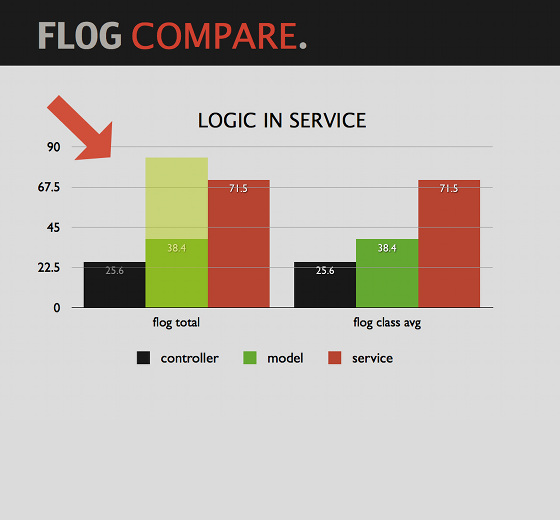
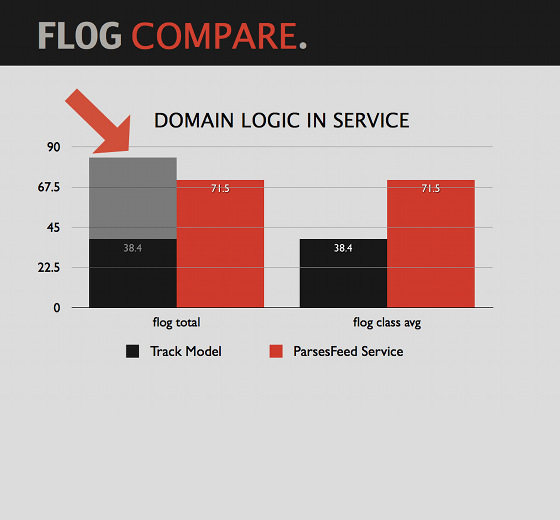
Adding more text to the slides

Changed region(s): [[0.0911, 0.1538, 0.4857, 0.7077], [0.425, 0.3385, 0.8804, 0.7077], [0.2732, 0.2154, 0.7286, 0.2462]]

diff --git a/index.html b/index.html
@@ -201,200 +201,239 @@
                       <img src="img/22.jpg" alt="" />
                       <div class="carousel-caption">
                           <h4>22 - Logic Outside of Rails</h4>
-                          <p>This is where my story begins. After going through a couple of tutorials I immediately started breaking out of Rails and putting
-                          my domain logic into Rails-independent service objects.</p>
+                          <p>This is where my story begins. After going through a couple of tutorials and placing most of the logic in models I soon started
+                            breaking out of Rails and puttig domain logic in Rails-independent service objects.</p>
                       </div>
                   </div>
                   <div class="item">
                       <img src="img/23.jpg" alt="" />
                       <div class="carousel-caption">
-                          <h4>23 - Thumbnail label</h4>
-                          <p>Cras justo odio, dapibus ac facilisis in, egestas eget quam. Donec id elit non mi porta gravida at eget metus. Nullam id dolor id nibh ultricies vehicula ut id elit.</p>
+                          <h4>23 - Domain Logic in Service</h4>
+                          <p>The controller looks very similar to the version where I had the logic in the model. Instead of calling the model, the controller
+                             sends a message to the service object.</p>
                       </div>
                   </div>
-                  <!--
                   <div class="item">
                       <img src="img/24.jpg" alt="" />
                       <div class="carousel-caption">
-                          <h4>24 - Thumbnail label</h4>
-                          <p>Cras justo odio, dapibus ac facilisis in, egestas eget quam. Donec id elit non mi porta gravida at eget metus. Nullam id dolor id nibh ultricies vehicula ut id elit.</p>
+                          <h4>24 - Domain Logic in Service - Flogged</h4>
+                          <p>Once the logic was moved into the service, the model went back to its original size. The benefit I had with the Rails independent
+                          service object was the very fast feedback loop with my unit tests.</p>
                       </div>
                   </div>
                   <div class="item">
                       <img src="img/25.jpg" alt="" />
                       <div class="carousel-caption">
-                          <h4>25 - Thumbnail label</h4>
-                          <p>Cras justo odio, dapibus ac facilisis in, egestas eget quam. Donec id elit non mi porta gravida at eget metus. Nullam id dolor id nibh ultricies vehicula ut id elit.</p>
+                          <h4>25 - Logic in Service Object</h4>
+                          <p>This is how I initially developed my service objects. One main method was called from the controller, and that "organizer" method
+                            called other methods within the same object.<br>
+                            In the context of this example the controller called the "for_track" method which in turn called other methods on itself.</p>
                       </div>
                   </div>
                   <div class="item">
                       <img src="img/26.jpg" alt="" />
                       <div class="carousel-caption">
-                          <h4>26 - Thumbnail label</h4>
-                          <p>Cras justo odio, dapibus ac facilisis in, egestas eget quam. Donec id elit non mi porta gravida at eget metus. Nullam id dolor id nibh ultricies vehicula ut id elit.</p>
+                          <h4>26 - Testing is Easy. Or is it?</h4>
+                          <p>I broke some obvious OO principles when I kept my internal methods "public" for the sake of easier testing. However, when I refactored
+                             the service's internal structures, some of the unit tests broke. This did not work...</p>
                       </div>
                   </div>
                   <div class="item">
                       <img src="img/27.jpg" alt="" />
                       <div class="carousel-caption">
-                          <h4>27 - Thumbnail label</h4>
-                          <p>Cras justo odio, dapibus ac facilisis in, egestas eget quam. Donec id elit non mi porta gravida at eget metus. Nullam id dolor id nibh ultricies vehicula ut id elit.</p>
+                          <h4>27 - How Will This Grow?</h4>
+                          <p>I made all the methods on the service object private except the "for_track" which was called by controller. This led to increadibly
+                             complex test setups. As I added more logic, the tests became even more brittle.<br>
+                             Listening to my tests it became pretty clear that this will not work in the fututre.</p>
                       </div>
                   </div>
                   <div class="item">
                       <img src="img/28.jpg" alt="" />
                       <div class="carousel-caption">
-                          <h4>28 - Thumbnail label</h4>
-                          <p>Cras justo odio, dapibus ac facilisis in, egestas eget quam. Donec id elit non mi porta gravida at eget metus. Nullam id dolor id nibh ultricies vehicula ut id elit.</p>
+                          <h4>28 - Naming My Services</h4>
+                          <p>Take a look at how I name my services. I don't use nouns, I name them with verbs. They mean actions to me. <br>When I see a class named
+                            "BuildsCategory" I know exactly what this class should do. It's not for parsing the feed or the recorded at value. It forces me
+                            to keep the object's single responsibility.</p>
                       </div>
                   </div>
                   <div class="item">
                       <img src="img/29.jpg" alt="" />
                       <div class="carousel-caption">
-                          <h4>29 - Thumbnail label</h4>
-                          <p>Cras justo odio, dapibus ac facilisis in, egestas eget quam. Donec id elit non mi porta gravida at eget metus. Nullam id dolor id nibh ultricies vehicula ut id elit.</p>
+                          <h4>29 - Execution In the Kingdom of Nouns</h4>
+                          <p>I attended CodeRetreat in Cleveland right after CodeMash last year. Corey Haines mentioned <a href="http://steve-yegge.blogspot.com/2006/03/execution-in-kingdom-of-nouns.html" target="_blank">this blog post</a> which is an amazing
+                            writing. Do yourself a favor and read it! You will name your classes differently.</p>
                       </div>
                   </div>
                   <div class="item">
                       <img src="img/30.jpg" alt="" />
                       <div class="carousel-caption">
-                          <h4>30 - Thumbnail label</h4>
-                          <p>Cras justo odio, dapibus ac facilisis in, egestas eget quam. Donec id elit non mi porta gravida at eget metus. Nullam id dolor id nibh ultricies vehicula ut id elit.</p>
+                          <h4>30 - Players in Services</h4>
+                          <p>It was obvious the design of my service object was sub-par. Testing of it was very difficult, I violated SRP all over my object. I had the find
+                             a much cleaner organization of my code. Two types of objects emerged: the single organizer object and the small action objects.</p>
                       </div>
                   </div>
                   <div class="item">
                       <img src="img/31.jpg" alt="" />
                       <div class="carousel-caption">
-                          <h4>31 - Thumbnail label</h4>
-                          <p>Cras justo odio, dapibus ac facilisis in, egestas eget quam. Donec id elit non mi porta gravida at eget metus. Nullam id dolor id nibh ultricies vehicula ut id elit.</p>
+                          <h4>31 - Organizer Object Tells the Story</h4>
+                          <p>I enjoy the kind of code that reads like a chapter from a book. I fell in love wit the readability of RSpec and the Ruby language itself.<br>
+                            Most of the things we do are a series of tasks. The parsing logic I used in my example has several steps: it splits the feed to parts,
+                            it parses out the recorded at date, validates the remainder of the feed, etc.</p>
                       </div>
                   </div>
                   <div class="item">
                       <img src="img/32.jpg" alt="" />
                       <div class="carousel-caption">
-                          <h4>32 - Thumbnail label</h4>
-                          <p>Cras justo odio, dapibus ac facilisis in, egestas eget quam. Donec id elit non mi porta gravida at eget metus. Nullam id dolor id nibh ultricies vehicula ut id elit.</p>
+                          <h4>32 - Organizer Object Dressed Up</h4>
+                          <p>I wanted to preserve the readability of the tasks in the organizer object in the form of actions.. The organizer calls them in order by iterating
+                          over them one by one.</p>
                       </div>
                   </div>
                   <div class="item">
                       <img src="img/33.jpg" alt="" />
                       <div class="carousel-caption">
-                          <h4>33 - Thumbnail label</h4>
-                          <p>Cras justo odio, dapibus ac facilisis in, egestas eget quam. Donec id elit non mi porta gravida at eget metus. Nullam id dolor id nibh ultricies vehicula ut id elit.</p>
+                          <h4>33 - The Actions</h4>
+                          <p>What are the actions? They are the atomic building blocks of the domain logic workflow. The organizer object calls them in order and they
+                            are unaware of each other's existance.</p>
                       </div>
                   </div>
                   <div class="item">
                       <img src="img/34.jpg" alt="" />
                       <div class="carousel-caption">
-                          <h4>34 - Thumbnail label</h4>
-                          <p>Cras justo odio, dapibus ac facilisis in, egestas eget quam. Donec id elit non mi porta gravida at eget metus. Nullam id dolor id nibh ultricies vehicula ut id elit.</p>
+                          <h4>34 - Once Upon a Time...</h4>
+                          <p>In my Java days I really liked the <a href="http://en.wikipedia.org/wiki/Chain-of-responsibility_pattern" target="_blank">Chain of Responsibility</a>
+                            pattern that I used to brake up complex workflows into simple, single responsible actions.<br>
+                          </p>
                       </div>
                   </div>
                   <div class="item">
                       <img src="img/35.jpg" alt="" />
                       <div class="carousel-caption">
-                          <h4>35 - Thumbnail label</h4>
-                          <p>Cras justo odio, dapibus ac facilisis in, egestas eget quam. Donec id elit non mi porta gravida at eget metus. Nullam id dolor id nibh ultricies vehicula ut id elit.</p>
+                          <h4>35 - Series of Actions</h4>
+                          <p>Using the Chain of Responsibility made sense in a staticly typed language like Java, but it was just too much of a ceremony in Ruby.
+                            Influenced by this Gof4 Pattern I came up with a slight variation of it: The Series of Actions. Instead of actions calling the next one
+                            in the chain I let the organizer set up the order and call them one by one.
+                          </p>
                       </div>
                   </div>
                   <div class="item">
                       <img src="img/36.jpg" alt="" />
                       <div class="carousel-caption">
-                          <h4>36 - Thumbnail label</h4>
-                          <p>Cras justo odio, dapibus ac facilisis in, egestas eget quam. Donec id elit non mi porta gravida at eget metus. Nullam id dolor id nibh ultricies vehicula ut id elit.</p>
+                          <h4>36 - An Action</h4>
+                          <p>My goal was to keep the actions as simple as possible. <br>
+                            Consider it as a black box: you put some stuff in it, it does it's magic and it either either alters an object already in the context or
+                            adds a new one in.
+                          </p>
                       </div>
                   </div>
                   <div class="item">
                       <img src="img/37.jpg" alt="" />
                       <div class="carousel-caption">
-                          <h4>37 - Thumbnail label</h4>
-                          <p>Cras justo odio, dapibus ac facilisis in, egestas eget quam. Donec id elit non mi porta gravida at eget metus. Nullam id dolor id nibh ultricies vehicula ut id elit.</p>
+                          <h4>37 - Domain Logic in Series of Actions - Flogged</h4>
+                          <p>Now the total Flog value went up for the service objects after refactoring them into Series of Actions. However, and this is important,
+                          the Flog class average went down significanlty. It's a lot easier to understand a class with 13 Flog value than one with around 80.</p>
                       </div>
                   </div>
                   <div class="item">
                       <img src="img/38.jpg" alt="" />
                       <div class="carousel-caption">
-                          <h4>38 - Thumbnail label</h4>
-                          <p>Cras justo odio, dapibus ac facilisis in, egestas eget quam. Donec id elit non mi porta gravida at eget metus. Nullam id dolor id nibh ultricies vehicula ut id elit.</p>
+                          <h4>38 - What So Functional About This?</h4>
+                          <p>Well, I am not newing up objects with instance variables and other instance methods. I don't maintain state in the class object.<br>
+                          I am basically building up the domain logic from small functions wrapped into class object methods.</p>
                       </div>
                   </div>
                   <div class="item">
                       <img src="img/39.jpg" alt="" />
                       <div class="carousel-caption">
-                          <h4>39 - Thumbnail label</h4>
-                          <p>Cras justo odio, dapibus ac facilisis in, egestas eget quam. Donec id elit non mi porta gravida at eget metus. Nullam id dolor id nibh ultricies vehicula ut id elit.</p>
+                          <h4>39 - Data is Transferred Through Context</h4>
+                          <p>The actions are working on the data provided to them. The data carrier, or context is a special kind of hash. A key-value pair with
+                            behavior added to it.</p>
                       </div>
                   </div>
                   <div class="item">
                       <img src="img/40.jpg" alt="" />
                       <div class="carousel-caption">
-                          <h4>40 - Thumbnail label</h4>
-                          <p>Cras justo odio, dapibus ac facilisis in, egestas eget quam. Donec id elit non mi porta gravida at eget metus. Nullam id dolor id nibh ultricies vehicula ut id elit.</p>
+                          <h4>40 - Context in the Organizer Object</h4>
+                          <p>The organizer object initializes the Context. It passes this context to the actions when it iterates through them.<br>
+                             At the very end this context object is returned to the controller filled with all data it needs.
+                          </p>
+
                       </div>
                   </div>
                   <div class="item">
                       <img src="img/41.jpg" alt="" />
                       <div class="carousel-caption">
-                          <h4>41 - Thumbnail label</h4>
-                          <p>Cras justo odio, dapibus ac facilisis in, egestas eget quam. Donec id elit non mi porta gravida at eget metus. Nullam id dolor id nibh ultricies vehicula ut id elit.</p>
+                          <h4>41 - Context in Actions</h4>
+                          <p>The actions know how to pull data from the context. It has to have an item in order to execute the action successfully.</p>
                       </div>
                   </div>
                   <div class="item">
                       <img src="img/42.jpg" alt="" />
                       <div class="carousel-caption">
-                          <h4>42 - Thumbnail label</h4>
-                          <p>Cras justo odio, dapibus ac facilisis in, egestas eget quam. Donec id elit non mi porta gravida at eget metus. Nullam id dolor id nibh ultricies vehicula ut id elit.</p>
+                          <h4>42 - Error in Action</h4>
+                          <p>And when an error occurs it sets the action pushed the context into a failure state.</p>
                       </div>
                   </div>
                   <div class="item">
                       <img src="img/43.jpg" alt="" />
                       <div class="carousel-caption">
-                          <h4>43 - Thumbnail label</h4>
-                          <p>Cras justo odio, dapibus ac facilisis in, egestas eget quam. Donec id elit non mi porta gravida at eget metus. Nullam id dolor id nibh ultricies vehicula ut id elit.</p>
+                          <h4>43 - Halting Execution</h4>
+                          <p>The actions are guarding themselves against a context which is a failed state. In case the second action fails, the third
+                             and fourth actions will not be executed.</p>
                       </div>
                   </div>
                   <div class="item">
                       <img src="img/44.jpg" alt="" />
                       <div class="carousel-caption">
-                          <h4>44 - Thumbnail label</h4>
-                          <p>Cras justo odio, dapibus ac facilisis in, egestas eget quam. Donec id elit non mi porta gravida at eget metus. Nullam id dolor id nibh ultricies vehicula ut id elit.</p>
+                          <h4>44 - Meet Light Service</h4>
+                          <p>As I went from one job to the other and I used the same ideas in different Rails projects, I ended up copying files a lot.
+                            Eventually I gathered all the functionalities I needed and released a gem that I named Light Service.<br>
+                            The whole gem right now has only two classes. That's it. I want to keep this as "light" as possible.
+                          </p>
                       </div>
                   </div>
+                  <!--
                   <div class="item">
                       <img src="img/45.jpg" alt="" />
                       <div class="carousel-caption">
-                          <h4>45 - Thumbnail label</h4>
-                          <p>Cras justo odio, dapibus ac facilisis in, egestas eget quam. Donec id elit non mi porta gravida at eget metus. Nullam id dolor id nibh ultricies vehicula ut id elit.</p>
+                          <h4>45 - Action's Execute Method</h4>
+                          <p>I realized all the actions were doing the same thing.</p>
                       </div>
                   </div>
+                  -->
                   <div class="item">
                       <img src="img/46.jpg" alt="" />
                       <div class="carousel-caption">
-                          <h4>46 - Thumbnail label</h4>
-                          <p>Cras justo odio, dapibus ac facilisis in, egestas eget quam. Donec id elit non mi porta gravida at eget metus. Nullam id dolor id nibh ultricies vehicula ut id elit.</p>
+                          <h4>46 - Execute Method in Actions</h4>
+                          <p>I realized all my actions were doing the same thing: guarding execution from the context in failure state and returning the 
+                          context object at the very end of the method.</p>
                       </div>
                   </div>
                   <div class="item">
                       <img src="img/47.jpg" alt="" />
                       <div class="carousel-caption">
-                          <h4>47 - Thumbnail label</h4>
-                          <p>Cras justo odio, dapibus ac facilisis in, egestas eget quam. Donec id elit non mi porta gravida at eget metus. Nullam id dolor id nibh ultricies vehicula ut id elit.</p>
+                          <h4>47 - Executed Light Service Macro</h4>
+                          <p>With <a href="https://github.com/adomokos/light-service" target="_blank">Light Service</a> you have a macro that does the same thing.
+                            It creates a method for you with the name "execute", it guards the execution and returns the context. You just don't have to
+                            write it for every single action. It essentially creates the method for you.
+                          </p>
                       </div>
                   </div>
                   <div class="item">
                       <img src="img/48.jpg" alt="" />
                       <div class="carousel-caption">
-                          <h4>48 - Thumbnail label</h4>
-                          <p>Cras justo odio, dapibus ac facilisis in, egestas eget quam. Donec id elit non mi porta gravida at eget metus. Nullam id dolor id nibh ultricies vehicula ut id elit.</p>
+                          <h4>48 - To Get Light Service</h4>
+                          <p>Either add it to your gemfile or install it through rubygems.</p>
                       </div>
                   </div>
                   <div class="item">
                       <img src="img/49.jpg" alt="" />
                       <div class="carousel-caption">
-                          <h4>49 - Thumbnail label</h4>
+                          <h4>49 - Growing Software</h4>
                           <p>Cras justo odio, dapibus ac facilisis in, egestas eget quam. Donec id elit non mi porta gravida at eget metus. Nullam id dolor id nibh ultricies vehicula ut id elit.</p>
                       </div>
                   </div>
+                  <!--
                   <div class="item">
                       <img src="img/50.jpg" alt="" />
                       <div class="carousel-caption">
